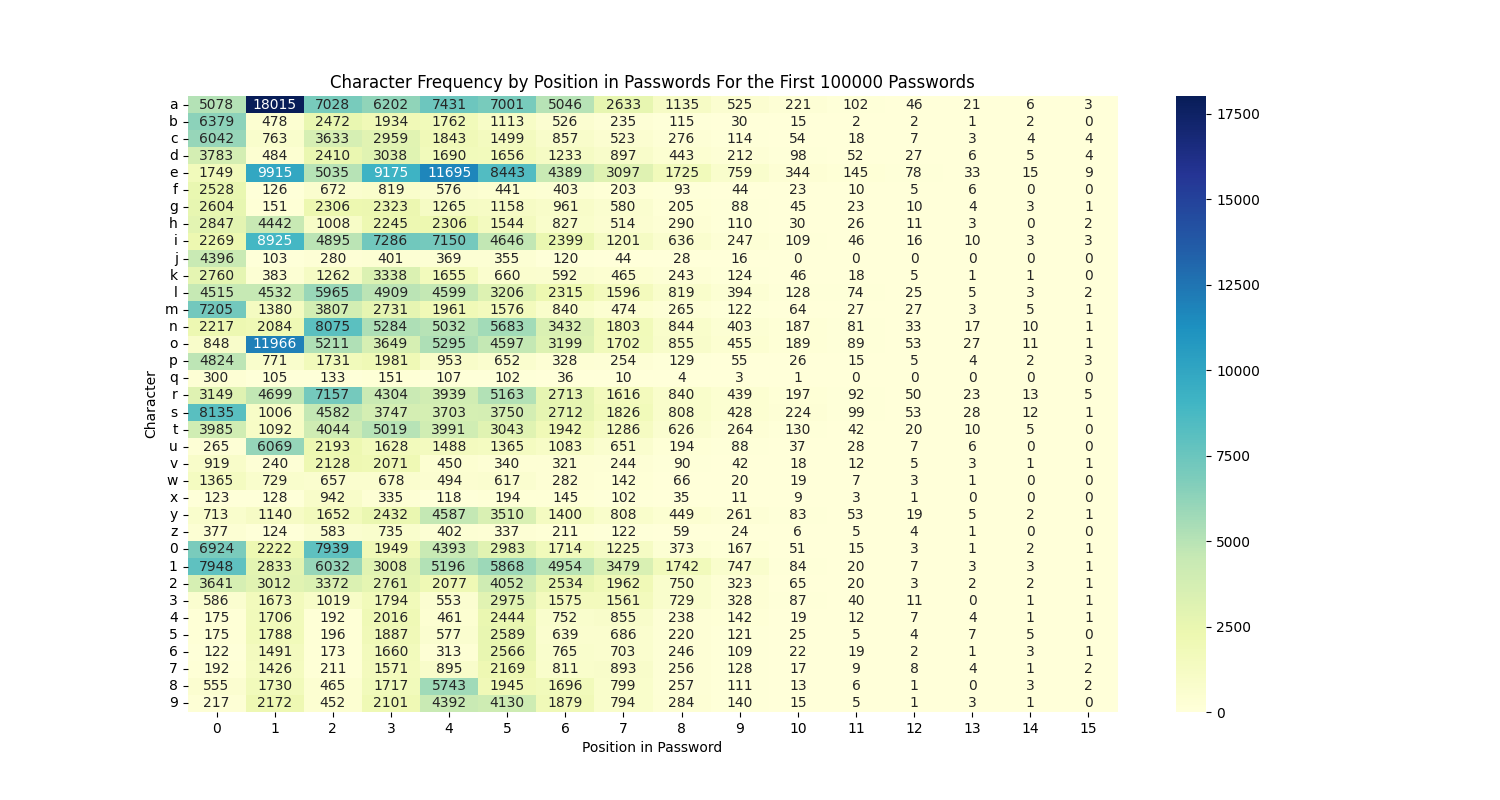
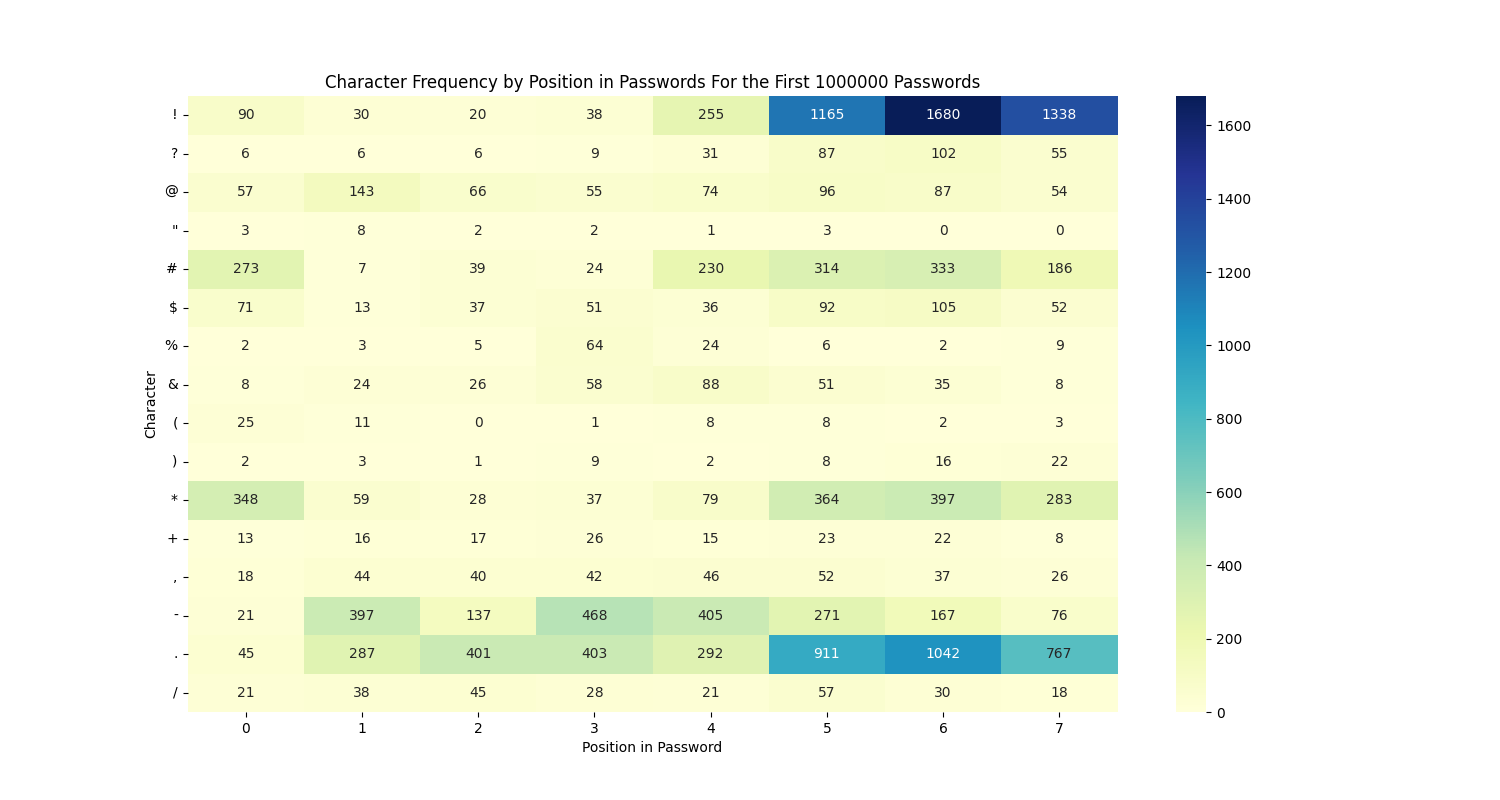
Update line read limit, remove wordloud, add regex
Updated the line read limit to 1 000 000, removed the wordcloud plot
(not that useful in this context), and added more regex options for
quickly searching certain types of passwords.

diff --git a/rockyou.py b/rockyou.py
@@ -3,11 +3,11 @@ import logging
 import matplotlib.pyplot as plt
 import pandas as pd
 import seaborn as sns
+from collections import Counter
 from pyspark.sql import SparkSession
-from wordcloud import WordCloud
 
-LINE_READ_LIMIT = 100000  # Limit the number of lines read from the file
-HEATMAP_CHARACTER_COUNT = 16  # Number of characters to analyze in the heatmap
+LINE_READ_LIMIT = 1000000  # Limit the number of lines read from the file
+HEATMAP_CHARACTER_COUNT = 8  # Number of characters to analyze in the heatmap
 
 # Files and directories
 ROCKYOU_FILE = "rockyou.txt"
@@ -50,6 +50,34 @@ def fetch_passwords_using_regex(pandas_df: pd.DataFrame,
     return filtered_df
 
 
+def find_most_common_words(pandas_df: pd.DataFrame, limit: int) -> None:
+    """
+    Finds the most common words in the passwords and prints them.
+
+    :param pandas_df: Pandas DataFrame containing a column of passwords.
+    """
+    logger.info(f"Finding the {limit} most common words in the passwords")
+
+    # Get a list of all words in the passwords
+    all_words = " ".join(pandas_df["value"]).split()
+
+    # Count the frequency of each word
+    word_counts = Counter(all_words)
+
+    # Print the most common words
+    for word, count in word_counts.most_common(limit):
+        logger.info(f"{word}: {count} occurrences")
+
+    # Check if the most common words are used as substrings, add the occurrences
+    # of the substrings to the count
+    for word, count in word_counts.most_common(limit):
+        substring_count = 0
+        for password in pandas_df["value"]:
+            if word in password:
+                substring_count += 1
+        logger.info(f"{word} (substring): {substring_count} occurrences")
+
+
 def plot_character_heatmap(pandas_df: pd.DataFrame,
                            character_count: int) -> None:
     """
@@ -61,7 +89,7 @@ def plot_character_heatmap(pandas_df: pd.DataFrame,
     logger.info("Creating character frequency heatmap")
 
     # Define the characters to analyze
-    characters = 'abcdefghijklmnopqrstuvwxyz0123456789'
+    characters = 'abcdefghijklmnopqrstuvwxyzABCDEFGHIJKLMNOPQRSTUVWXYZ0123456789!@#$%^&*()_+-=.,<>?;:[]{}|\\/'
     # Initialize a matrix to track character frequencies by position
     heatmap_data = {char: [0]*character_count for char in characters}
 
@@ -127,34 +155,59 @@ def plot_password_lengths(pandas_df: pd.DataFrame) -> None:
                 f"{PLOTS_DIR}/password_length_histogram.png")
 
 
-def plot_word_cloud(pandas_df: pd.DataFrame) -> None:
+def plot_word_length(pandas_df: pd.DataFrame) -> None:
     """
-    Creates a word cloud from the passwords in the DataFrame.
+    creates a box plot of the lengths of the words in the passwords.
 
     :param pandas_df: Pandas DataFrame containing a column of passwords.
     """
-    logger.info("Creating word cloud")
+    logger.info("Creating box plot of word lengths")
 
-    # Combine all passwords into a single string
-    text = " ".join(pandas_df["value"])
+    # Measure the length of each word
+    pandas_df["word_len"] = pandas_df["value"].apply(len)
 
-    # Generate a word cloud image
-    wordcloud = WordCloud(width=800,
-                          height=400,
-                          background_color="white").generate(text)
+    # Show the length range
+    logger.info(f"Word length range: {pandas_df['word_len'].min()} to " \
+                f"{pandas_df['word_len'].max()} characters")
 
-    # Display the generated image:
-    plt.figure(figsize=(15, 10))
-    plt.imshow(wordcloud, interpolation="bilinear")
-    plt.axis("off")
-    plt.title(f"Word Cloud For the First {LINE_READ_LIMIT} Passwords")
+    # Show the shortest and longest words
+    logger.info("Shortest word: " \
+                f"{pandas_df['value'][pandas_df['word_len'].idxmin()]}")
+    logger.info("Longest word: " \
+                f"{pandas_df['value'][pandas_df['word_len'].idxmax()]}")
 
-    # Save the word cloud
-    word_cloud_filename = f"{PLOTS_DIR}/passwords_word_cloud.png"
-    plt.savefig(word_cloud_filename)
-    logger.info(f"Saved word cloud to {word_cloud_filename}")
+    # Show the average word length
+    logger.info(f"Average word length: {pandas_df['word_len'].mean()} " \
+                "characters")
 
-    plt.close()  # Close the plot to avoid displaying it inline if not desired
+    # Show the median word length
+    logger.info(f"Median word length: {pandas_df['word_len'].median()} " \
+                "characters")
+
+    # Show the standard deviation of word lengths
+    logger.info(f"Standard deviation of word lengths: " \
+                f"{pandas_df['word_len'].std()} characters")
+
+    # Remove passwords with word lengths greater than 16
+    pandas_df = pandas_df[pandas_df["word_len"] <= 16]
+
+    # Plot the word length box plot
+    plt.figure(figsize=(10, 6))
+    sns.boxplot(pandas_df["word_len"])
+    plt.title(f"Box Plot of Word Lengths For the First {LINE_READ_LIMIT} " \
+              "Passwords (Words <= 16 Characters)")
+    plt.ylabel("Password length")
+
+    # Plot y-axis every 5 characters
+    plt.yticks(range(0, pandas_df["word_len"].max() + 1, 1))
+
+    # Set grid style
+    plt.grid(axis="y", alpha=0.75)
+
+    # Save the plot
+    plt.savefig(f"{PLOTS_DIR}/word_length_boxplot.png")
+    logger.info(f"Saved box plot of word lengths to " \
+                f"{PLOTS_DIR}/word_length_boxplot.png")
 
 
 def read_and_limit_data(filepath: str, limit: int=1000) -> pd.DataFrame:
@@ -184,24 +237,72 @@ def main() -> None:
     df = read_and_limit_data(ROCKYOU_FILE, LINE_READ_LIMIT)
     pandas_df = df.toPandas()
 
+    ###################
+    ## Plot examples ##
+    ###################
+
     # Plot password lengths histogram
-    plot_password_lengths(pandas_df)
+    #plot_password_lengths(pandas_df)
 
     # Plot character heatpmap
-    plot_character_heatmap(pandas_df, HEATMAP_CHARACTER_COUNT)
+    #plot_character_heatmap(pandas_df, HEATMAP_CHARACTER_COUNT)
 
-    # Plot word cloud
-    plot_word_cloud(pandas_df)
+    # Plot word length box plot
+    #plot_word_length(pandas_df)
 
-    ## Fetch numeric passwords
+    # Find most common words
+    #find_most_common_words(pandas_df, 20)
+
+    #################################
+    ## Regular expression examples ##
+    #################################
+
+    # Fetch the count of numeric passwords
     #df = fetch_passwords_using_regex(pandas_df, "^[0-9]+$")
-    #logger.info(f"Numeric passwords: {pandas_df}")
-    ## Fetch alphabetic passwords
+    #logger.info(f"Numeric passwords: {df.count()}")
+
+    # Fetch alphabetic passwords
     #df = fetch_passwords_using_regex(pandas_df, "^[A-Za-z]+$")
-    #logger.info(f"Alphabetic passwords: {pandas_df}")
-    ## Fetch passwords with special characters
+    #logger.info(f"Alphabetic passwords: {df.count()}")
+
+    # Fetch passwords with special characters
     #df = fetch_passwords_using_regex(pandas_df, "[!@#$%^&*(),.?\":{}|<>]+")
-    #logger.info(f"Passwords with special characters: {pandas_df}")
+    #logger.info(f"Passwords with special characters: {df.count()}")
+
+    # Fetch passwords that contain alphanumeric characters and special characters
+    #df = fetch_passwords_using_regex(pandas_df,
+    #    "^(?=.*[A-Za-z0-9])(?=.*[!@#$%^&*(),.?\":{}|<>]).+$")
+    #logger.info(f"Passwords with alphanumeric and special characters: {df.count()}")
+
+    # Fetch passwords that are shorter than 5 characters
+    #df = fetch_passwords_using_regex(pandas_df, "^.{1,5}$")
+    #logger.info(f"Passwords shorter than 5 characters: {df.count()}")
+
+    # Fetch passwords that are between 6-8 characters
+    #df = fetch_passwords_using_regex(pandas_df, "^.{0,16}$")
+    #logger.info(f"Passwords between 6-8 characters: {df.count()}")
+
+    # Fetch passwords with common patterns (e.g. "abc" or "123")
+    # Find patterns that contain abc, e.g. abc and abcdefg
+    #df = fetch_passwords_using_regex(pandas_df, "(abc)")
+    #logger.info(f"Passwords with 'abc' patterns: {df.count()}")
+
+    #df = fetch_passwords_using_regex(pandas_df, "(123)")
+    #logger.info(f"Passwords with '123' patterns: {df.count()}")
+
+    #df = fetch_passwords_using_regex(pandas_df, "(012)")
+    #logger.info(f"Passwords with '012' patterns: {df.count()}")
+
+    #df = fetch_passwords_using_regex(pandas_df, "(qwe)")
+    #logger.info(f"Passwords with 'qwer patterns: {df.count()}")
+
+    #df = fetch_passwords_using_regex(pandas_df, "(asd)")
+    #logger.info(f"Passwords with 'asd' patterns: {df.count()}")
+
+    #df = fetch_passwords_using_regex(pandas_df,
+    #    "^(?=.*[a-z])(?=.*[A-Z])(?=.*[0-9])(?=.*[!@#$%^&*(),.?\":{}|<>]).{8,}$")
+    #logger.info("Passwords with alphanumeric and special characters:" \
+    #            f"{df.count()}")
 
 
 if __name__ == "__main__":
